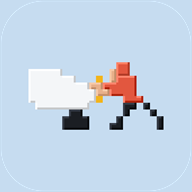
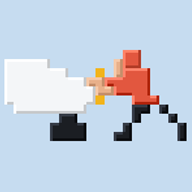
앱 로고: 아이콘 안 그림 1.35배 확대 · 버전 v199

Changed region(s): [[0.0, 0.25, 1.0, 0.75]]

diff --git a/index.html b/index.html
@@ -4092,7 +4092,7 @@ async function precacheAll(){
   else { try{ localStorage.setItem("pbPreAll", C_VER||"1"); }catch(e){}
          setL("저장 완료 ✓ 오프라인 가능"); }
 }
-var C_VER="v198";
+var C_VER="v199";
 try{
   const b=document.getElementById("preLbl"), pre=localStorage.getItem("pbPreAll"), pv=localStorage.getItem("pbVer");
   if(b && pre){

diff --git a/sw.js b/sw.js
@@ -1,4 +1,4 @@
-const C="pushback-v198";
+const C="pushback-v199";
 const IMG="pushback-img";   // 도면·항공기 이미지 전용 캐시 — 앱 버전이 바뀌어도 유지
 const VH="x-pb-ver";        // 저장된 도면이 '어느 앱 버전에서 받은 것인지' 표시
 const SHELL=["./","./index.html","./gates.js","./manifest.json","./icon-192.png"];
